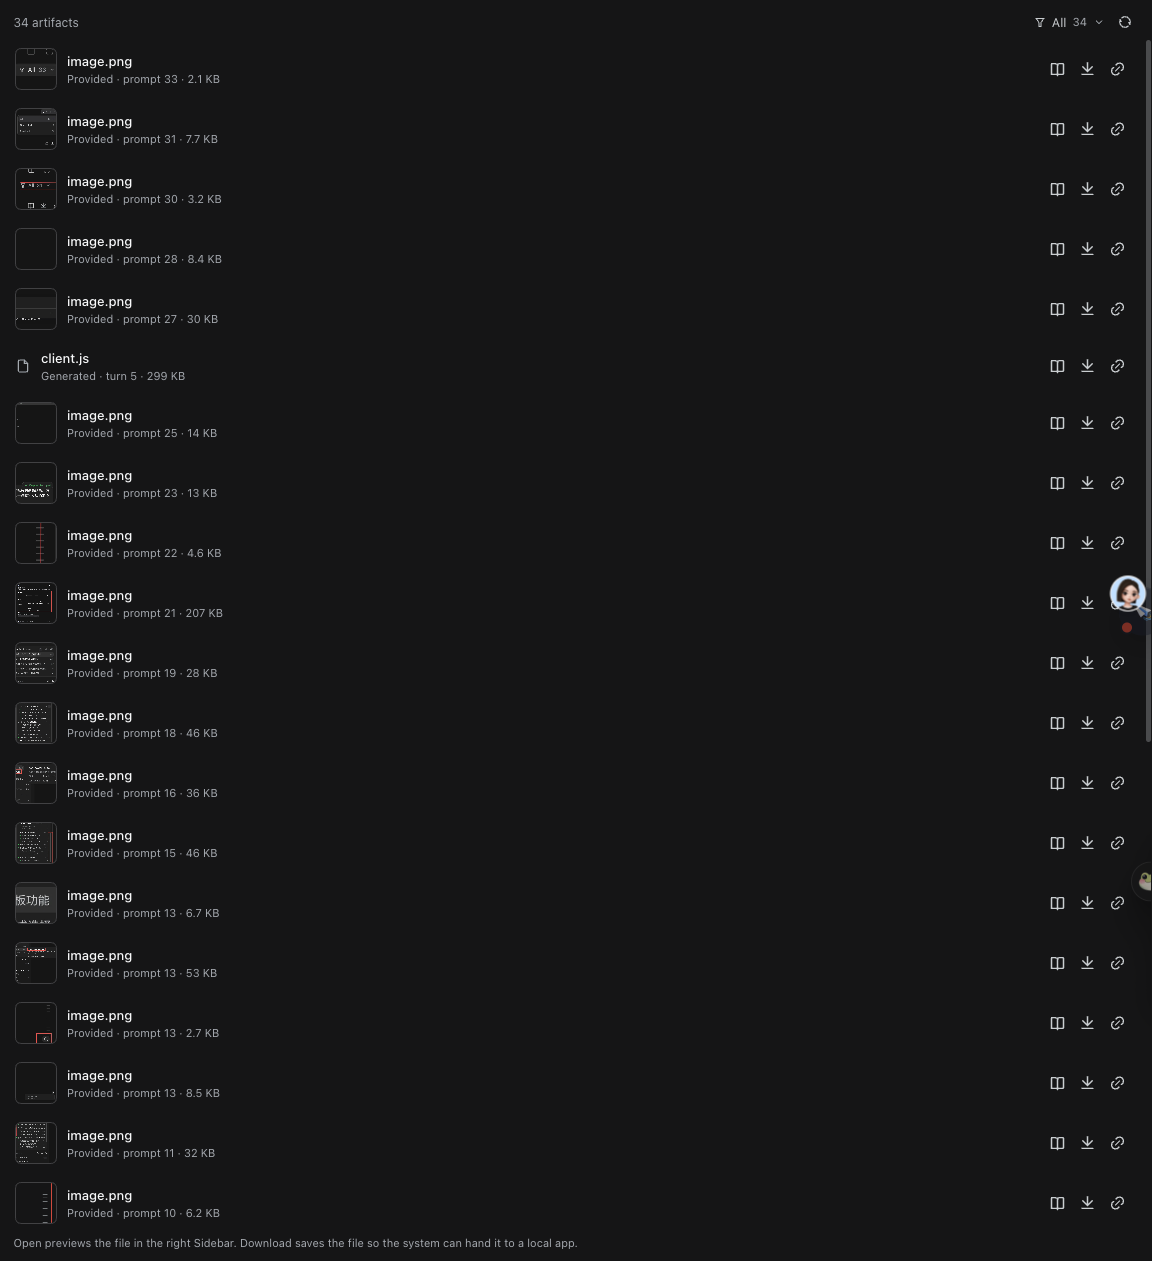
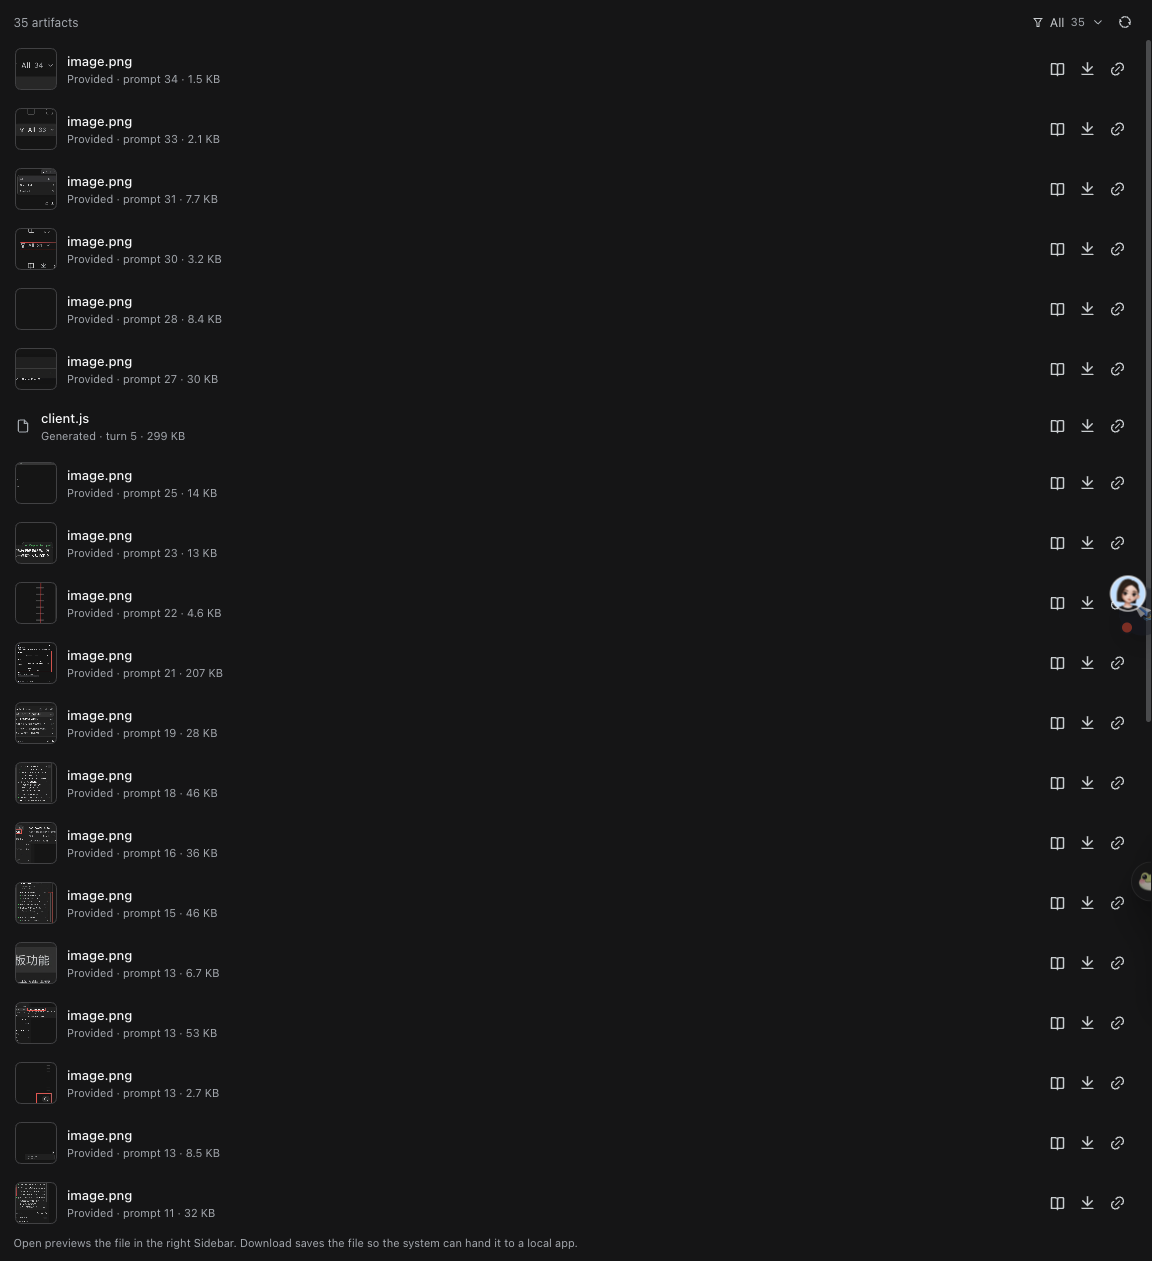
fix(artifacts): enlarge the filter trigger caret
Bump the thin stroked chevron from 12px to 14px (stroke 1.6) so it reads at
the same optical weight as the funnel and refresh icons; rotation on open is
unchanged. Refresh the panel/menu captures.

diff --git a/src/client.js b/src/client.js
@@ -265,7 +265,7 @@ window.__ModuleLoader__.load({
         height: size ?? 12,
         fill: 'none',
         stroke: 'currentColor',
-        strokeWidth: 1.7,
+        strokeWidth: 1.6,
         strokeLinecap: 'round',
         strokeLinejoin: 'round',
         'aria-hidden': 'true',
@@ -2299,7 +2299,7 @@ window.__ModuleLoader__.load({
           RemixGlyph(REMIX_FILTER_LINE, 12),
           React.createElement('span', { className: 'dsa-filter-trigger-label' }, t(`filter.${filter}`)),
           React.createElement('span', { className: 'dsa-filter-trigger-count' }, filterCounts[filter]),
-          React.createElement('span', { className: 'dsa-filter-caret' }, FilterCaretGlyph(12))),
+          React.createElement('span', { className: 'dsa-filter-caret' }, FilterCaretGlyph(14))),
           filterMenu)
         : null
 
